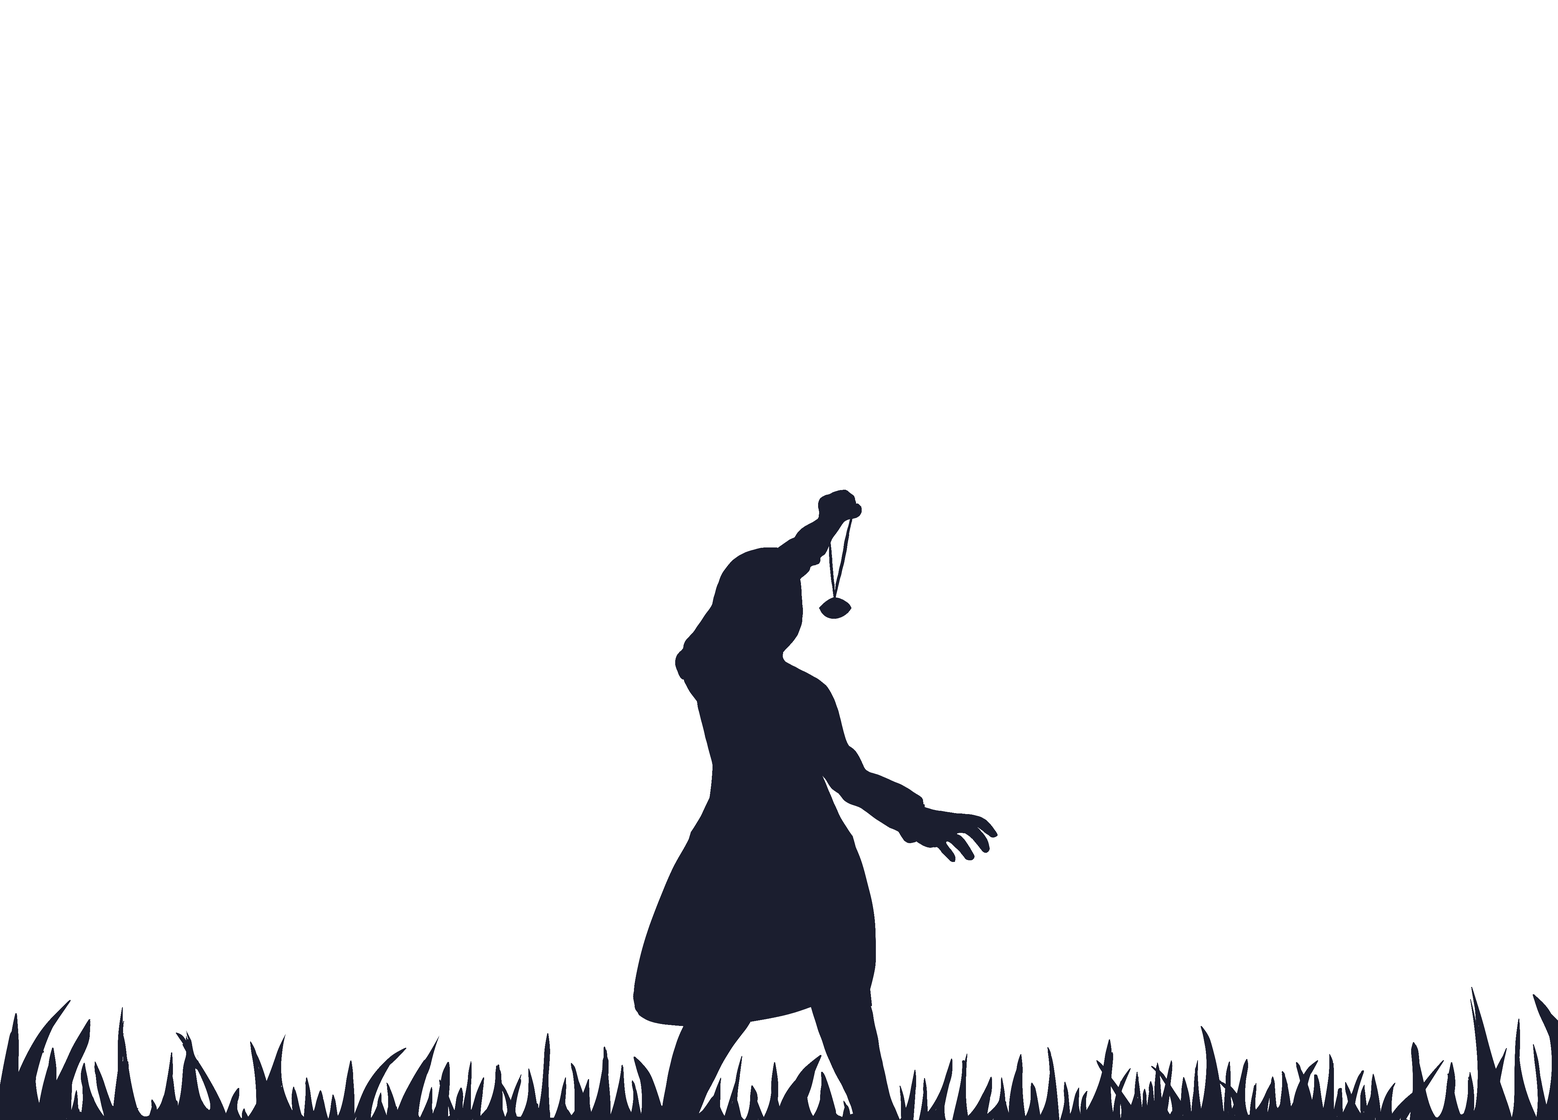
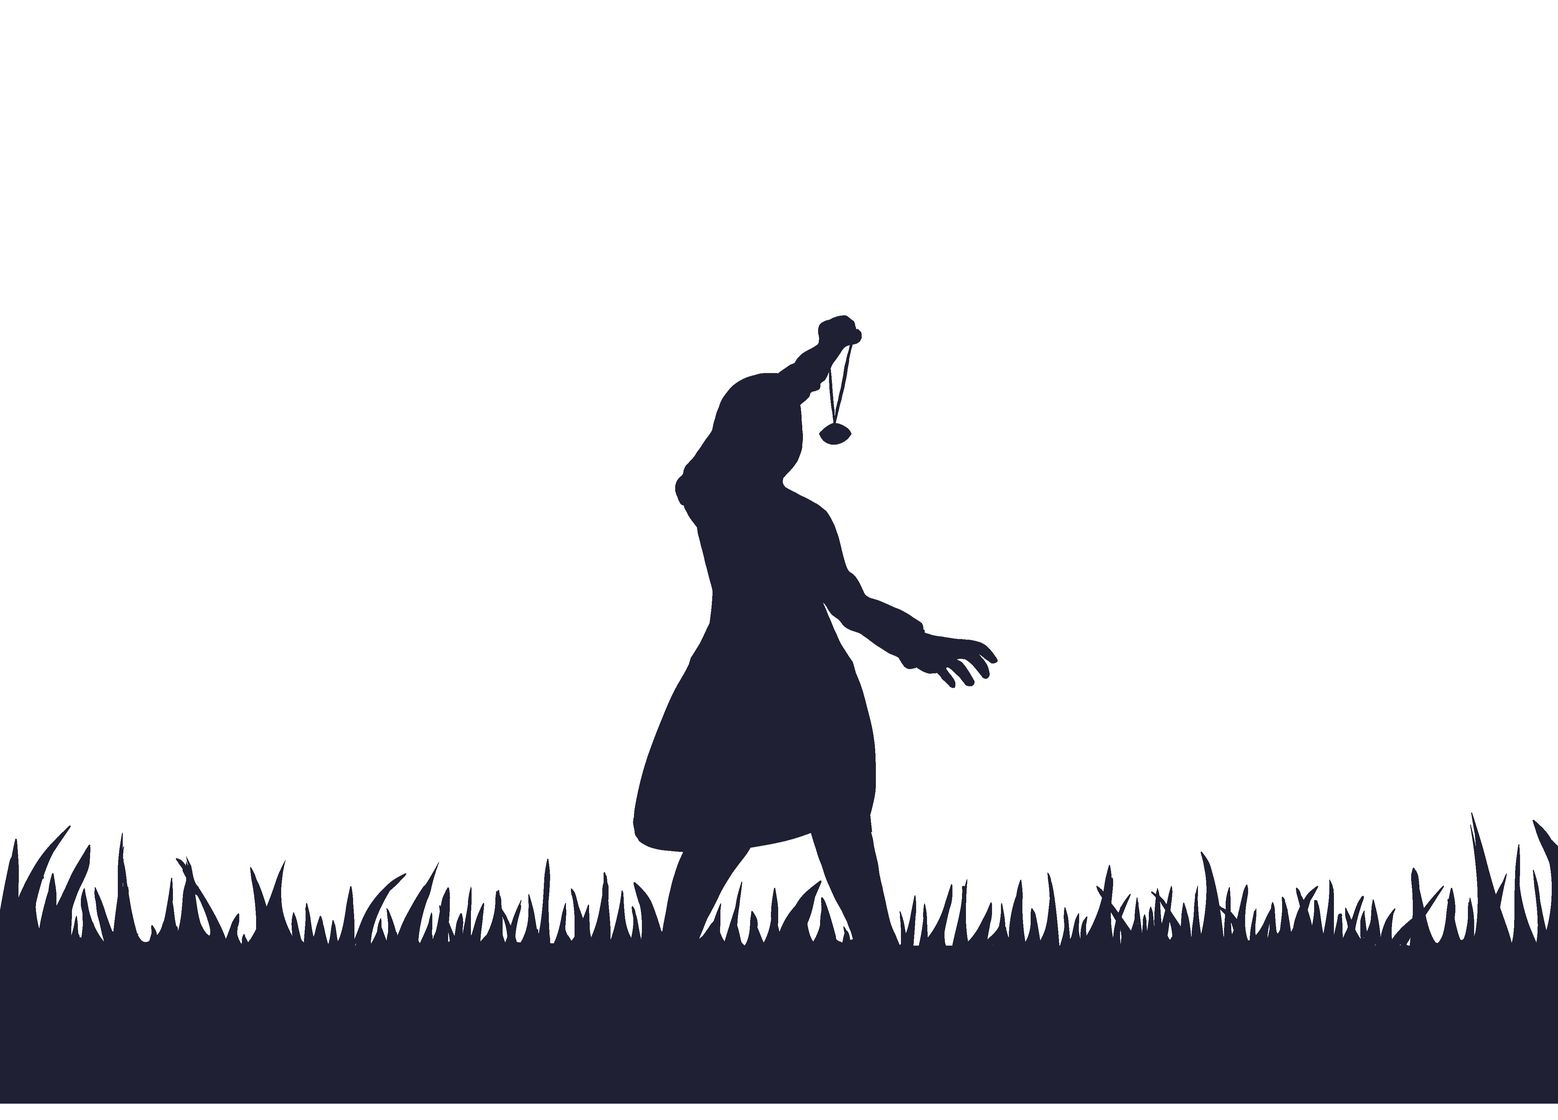
changed theming

Changed region(s): [[0.0, 0.2811, 1.0, 1.0]]

diff --git a/src/components/waves.tsx b/src/components/waves.tsx
@@ -24,26 +24,38 @@ class BG1 extends React.Component {
         height="100%"
         version="1.1"
       >
-        <rect x="0" y="0" width="1920" height="1080" fill="#272727"></rect>
+        <rect x="0" y="0" width="1920" height="1080" fill="#1f2033"></rect>
         <path
-          d="M0 725L45.7 712.3C91.3 699.7 182.7 674.3 274.2 664.8C365.7 655.3 457.3 661.7 548.8 680.7C640.3 699.7 731.7 731.3 823 742.5C914.3 753.7 1005.7 744.3 1097 739.7C1188.3 735 1279.7 735 1371.2 738.8C1462.7 742.7 1554.3 750.3 1645.8 752.5C1737.3 754.7 1828.7 751.3 1874.3 749.7L1920 748L1920 1081L1874.3 1081C1828.7 1081 1737.3 1081 1645.8 1081C1554.3 1081 1462.7 1081 1371.2 1081C1279.7 1081 1188.3 1081 1097 1081C1005.7 1081 914.3 1081 823 1081C731.7 1081 640.3 1081 548.8 1081C457.3 1081 365.7 1081 274.2 1081C182.7 1081 91.3 1081 45.7 1081L0 1081Z"
-          fill="#a6fdff"
+          d="M0 606L29.2 627.8C58.3 649.7 116.7 693.3 174.8 693.2C233 693 291 649 349.2 651.8C407.3 654.7 465.7 704.3 523.8 730.8C582 757.3 640 760.7 698.2 738.7C756.3 716.7 814.7 669.3 872.8 654.5C931 639.7 989 657.3 1047.2 668.8C1105.3 680.3 1163.7 685.7 1221.8 693.8C1280 702 1338 713 1396.2 711.2C1454.3 709.3 1512.7 694.7 1570.8 699.2C1629 703.7 1687 727.3 1745.2 740C1803.3 752.7 1861.7 754.3 1890.8 755.2L1920 756L1920 1081L1890.8 1081C1861.7 1081 1803.3 1081 1745.2 1081C1687 1081 1629 1081 1570.8 1081C1512.7 1081 1454.3 1081 1396.2 1081C1338 1081 1280 1081 1221.8 1081C1163.7 1081 1105.3 1081 1047.2 1081C989 1081 931 1081 872.8 1081C814.7 1081 756.3 1081 698.2 1081C640 1081 582 1081 523.8 1081C465.7 1081 407.3 1081 349.2 1081C291 1081 233 1081 174.8 1081C116.7 1081 58.3 1081 29.2 1081L0 1081Z"
+          fill="#aeb4d7"
         ></path>
         <path
-          d="M0 825L45.7 828C91.3 831 182.7 837 274.2 823.2C365.7 809.3 457.3 775.7 548.8 753.5C640.3 731.3 731.7 720.7 823 739.7C914.3 758.7 1005.7 807.3 1097 807.2C1188.3 807 1279.7 758 1371.2 754.5C1462.7 751 1554.3 793 1645.8 811.8C1737.3 830.7 1828.7 826.3 1874.3 824.2L1920 822L1920 1081L1874.3 1081C1828.7 1081 1737.3 1081 1645.8 1081C1554.3 1081 1462.7 1081 1371.2 1081C1279.7 1081 1188.3 1081 1097 1081C1005.7 1081 914.3 1081 823 1081C731.7 1081 640.3 1081 548.8 1081C457.3 1081 365.7 1081 274.2 1081C182.7 1081 91.3 1081 45.7 1081L0 1081Z"
-          fill="#7fd3da"
+          d="M0 810L29.2 798.7C58.3 787.3 116.7 764.7 174.8 758.5C233 752.3 291 762.7 349.2 758.7C407.3 754.7 465.7 736.3 523.8 722C582 707.7 640 697.3 698.2 688.2C756.3 679 814.7 671 872.8 673.5C931 676 989 689 1047.2 698.8C1105.3 708.7 1163.7 715.3 1221.8 709.3C1280 703.3 1338 684.7 1396.2 684.5C1454.3 684.3 1512.7 702.7 1570.8 720.3C1629 738 1687 755 1745.2 758.7C1803.3 762.3 1861.7 752.7 1890.8 747.8L1920 743L1920 1081L1890.8 1081C1861.7 1081 1803.3 1081 1745.2 1081C1687 1081 1629 1081 1570.8 1081C1512.7 1081 1454.3 1081 1396.2 1081C1338 1081 1280 1081 1221.8 1081C1163.7 1081 1105.3 1081 1047.2 1081C989 1081 931 1081 872.8 1081C814.7 1081 756.3 1081 698.2 1081C640 1081 582 1081 523.8 1081C465.7 1081 407.3 1081 349.2 1081C291 1081 233 1081 174.8 1081C116.7 1081 58.3 1081 29.2 1081L0 1081Z"
+          fill="#989dbd"
         ></path>
         <path
-          d="M0 920L45.7 911.2C91.3 902.3 182.7 884.7 274.2 868C365.7 851.3 457.3 835.7 548.8 840.7C640.3 845.7 731.7 871.3 823 877.7C914.3 884 1005.7 871 1097 858.7C1188.3 846.3 1279.7 834.7 1371.2 840C1462.7 845.3 1554.3 867.7 1645.8 868.2C1737.3 868.7 1828.7 847.3 1874.3 836.7L1920 826L1920 1081L1874.3 1081C1828.7 1081 1737.3 1081 1645.8 1081C1554.3 1081 1462.7 1081 1371.2 1081C1279.7 1081 1188.3 1081 1097 1081C1005.7 1081 914.3 1081 823 1081C731.7 1081 640.3 1081 548.8 1081C457.3 1081 365.7 1081 274.2 1081C182.7 1081 91.3 1081 45.7 1081L0 1081Z"
-          fill="#5aaab5"
+          d="M0 757L29.2 768.2C58.3 779.3 116.7 801.7 174.8 794.7C233 787.7 291 751.3 349.2 753C407.3 754.7 465.7 794.3 523.8 804.8C582 815.3 640 796.7 698.2 787.3C756.3 778 814.7 778 872.8 775.2C931 772.3 989 766.7 1047.2 772.7C1105.3 778.7 1163.7 796.3 1221.8 796C1280 795.7 1338 777.3 1396.2 768.8C1454.3 760.3 1512.7 761.7 1570.8 763.7C1629 765.7 1687 768.3 1745.2 766.2C1803.3 764 1861.7 757 1890.8 753.5L1920 750L1920 1081L1890.8 1081C1861.7 1081 1803.3 1081 1745.2 1081C1687 1081 1629 1081 1570.8 1081C1512.7 1081 1454.3 1081 1396.2 1081C1338 1081 1280 1081 1221.8 1081C1163.7 1081 1105.3 1081 1047.2 1081C989 1081 931 1081 872.8 1081C814.7 1081 756.3 1081 698.2 1081C640 1081 582 1081 523.8 1081C465.7 1081 407.3 1081 349.2 1081C291 1081 233 1081 174.8 1081C116.7 1081 58.3 1081 29.2 1081L0 1081Z"
+          fill="#8286a4"
         ></path>
         <path
-          d="M0 925L45.7 923.5C91.3 922 182.7 919 274.2 912.2C365.7 905.3 457.3 894.7 548.8 887C640.3 879.3 731.7 874.7 823 887.7C914.3 900.7 1005.7 931.3 1097 944C1188.3 956.7 1279.7 951.3 1371.2 935.5C1462.7 919.7 1554.3 893.3 1645.8 893.2C1737.3 893 1828.7 919 1874.3 932L1920 945L1920 1081L1874.3 1081C1828.7 1081 1737.3 1081 1645.8 1081C1554.3 1081 1462.7 1081 1371.2 1081C1279.7 1081 1188.3 1081 1097 1081C1005.7 1081 914.3 1081 823 1081C731.7 1081 640.3 1081 548.8 1081C457.3 1081 365.7 1081 274.2 1081C182.7 1081 91.3 1081 45.7 1081L0 1081Z"
-          fill="#358291"
+          d="M0 782L29.2 785.8C58.3 789.7 116.7 797.3 174.8 803.5C233 809.7 291 814.3 349.2 824.3C407.3 834.3 465.7 849.7 523.8 847.7C582 845.7 640 826.3 698.2 823C756.3 819.7 814.7 832.3 872.8 837.8C931 843.3 989 841.7 1047.2 841.8C1105.3 842 1163.7 844 1221.8 846.5C1280 849 1338 852 1396.2 853.8C1454.3 855.7 1512.7 856.3 1570.8 850.8C1629 845.3 1687 833.7 1745.2 834C1803.3 834.3 1861.7 846.7 1890.8 852.8L1920 859L1920 1081L1890.8 1081C1861.7 1081 1803.3 1081 1745.2 1081C1687 1081 1629 1081 1570.8 1081C1512.7 1081 1454.3 1081 1396.2 1081C1338 1081 1280 1081 1221.8 1081C1163.7 1081 1105.3 1081 1047.2 1081C989 1081 931 1081 872.8 1081C814.7 1081 756.3 1081 698.2 1081C640 1081 582 1081 523.8 1081C465.7 1081 407.3 1081 349.2 1081C291 1081 233 1081 174.8 1081C116.7 1081 58.3 1081 29.2 1081L0 1081Z"
+          fill="#6c708c"
         ></path>
         <path
-          d="M0 964L45.7 967.3C91.3 970.7 182.7 977.3 274.2 974C365.7 970.7 457.3 957.3 548.8 961.5C640.3 965.7 731.7 987.3 823 1001C914.3 1014.7 1005.7 1020.3 1097 1022C1188.3 1023.7 1279.7 1021.3 1371.2 1008.5C1462.7 995.7 1554.3 972.3 1645.8 965.2C1737.3 958 1828.7 967 1874.3 971.5L1920 976L1920 1081L1874.3 1081C1828.7 1081 1737.3 1081 1645.8 1081C1554.3 1081 1462.7 1081 1371.2 1081C1279.7 1081 1188.3 1081 1097 1081C1005.7 1081 914.3 1081 823 1081C731.7 1081 640.3 1081 548.8 1081C457.3 1081 365.7 1081 274.2 1081C182.7 1081 91.3 1081 45.7 1081L0 1081Z"
-          fill="#065d6e"
+          d="M0 867L29.2 862.7C58.3 858.3 116.7 849.7 174.8 849.3C233 849 291 857 349.2 860.5C407.3 864 465.7 863 523.8 866.7C582 870.3 640 878.7 698.2 878.7C756.3 878.7 814.7 870.3 872.8 867.8C931 865.3 989 868.7 1047.2 871.2C1105.3 873.7 1163.7 875.3 1221.8 885C1280 894.7 1338 912.3 1396.2 904.7C1454.3 897 1512.7 864 1570.8 846.3C1629 828.7 1687 826.3 1745.2 830.5C1803.3 834.7 1861.7 845.3 1890.8 850.7L1920 856L1920 1081L1890.8 1081C1861.7 1081 1803.3 1081 1745.2 1081C1687 1081 1629 1081 1570.8 1081C1512.7 1081 1454.3 1081 1396.2 1081C1338 1081 1280 1081 1221.8 1081C1163.7 1081 1105.3 1081 1047.2 1081C989 1081 931 1081 872.8 1081C814.7 1081 756.3 1081 698.2 1081C640 1081 582 1081 523.8 1081C465.7 1081 407.3 1081 349.2 1081C291 1081 233 1081 174.8 1081C116.7 1081 58.3 1081 29.2 1081L0 1081Z"
+          fill="#585a74"
+        ></path>
+        <path
+          d="M0 896L29.2 902.7C58.3 909.3 116.7 922.7 174.8 922.5C233 922.3 291 908.7 349.2 901.7C407.3 894.7 465.7 894.3 523.8 898.7C582 903 640 912 698.2 909C756.3 906 814.7 891 872.8 883.2C931 875.3 989 874.7 1047.2 881.7C1105.3 888.7 1163.7 903.3 1221.8 910C1280 916.7 1338 915.3 1396.2 913.5C1454.3 911.7 1512.7 909.3 1570.8 918.5C1629 927.7 1687 948.3 1745.2 959C1803.3 969.7 1861.7 970.3 1890.8 970.7L1920 971L1920 1081L1890.8 1081C1861.7 1081 1803.3 1081 1745.2 1081C1687 1081 1629 1081 1570.8 1081C1512.7 1081 1454.3 1081 1396.2 1081C1338 1081 1280 1081 1221.8 1081C1163.7 1081 1105.3 1081 1047.2 1081C989 1081 931 1081 872.8 1081C814.7 1081 756.3 1081 698.2 1081C640 1081 582 1081 523.8 1081C465.7 1081 407.3 1081 349.2 1081C291 1081 233 1081 174.8 1081C116.7 1081 58.3 1081 29.2 1081L0 1081Z"
+          fill="#44465e"
+        ></path>
+        <path
+          d="M0 963L29.2 970.5C58.3 978 116.7 993 174.8 997C233 1001 291 994 349.2 987.2C407.3 980.3 465.7 973.7 523.8 966.7C582 959.7 640 952.3 698.2 947.7C756.3 943 814.7 941 872.8 951.3C931 961.7 989 984.3 1047.2 995C1105.3 1005.7 1163.7 1004.3 1221.8 1000.3C1280 996.3 1338 989.7 1396.2 990.7C1454.3 991.7 1512.7 1000.3 1570.8 995C1629 989.7 1687 970.3 1745.2 959.8C1803.3 949.3 1861.7 947.7 1890.8 946.8L1920 946L1920 1081L1890.8 1081C1861.7 1081 1803.3 1081 1745.2 1081C1687 1081 1629 1081 1570.8 1081C1512.7 1081 1454.3 1081 1396.2 1081C1338 1081 1280 1081 1221.8 1081C1163.7 1081 1105.3 1081 1047.2 1081C989 1081 931 1081 872.8 1081C814.7 1081 756.3 1081 698.2 1081C640 1081 582 1081 523.8 1081C465.7 1081 407.3 1081 349.2 1081C291 1081 233 1081 174.8 1081C116.7 1081 58.3 1081 29.2 1081L0 1081Z"
+          fill="#313248"
+        ></path>
+        <path
+          d="M0 1009L29.2 1016.5C58.3 1024 116.7 1039 174.8 1039.8C233 1040.7 291 1027.3 349.2 1026.7C407.3 1026 465.7 1038 523.8 1037.7C582 1037.3 640 1024.7 698.2 1016.8C756.3 1009 814.7 1006 872.8 1002C931 998 989 993 1047.2 990.7C1105.3 988.3 1163.7 988.7 1221.8 993C1280 997.3 1338 1005.7 1396.2 1015.8C1454.3 1026 1512.7 1038 1570.8 1044.5C1629 1051 1687 1052 1745.2 1052.5C1803.3 1053 1861.7 1053 1890.8 1053L1920 1053L1920 1081L1890.8 1081C1861.7 1081 1803.3 1081 1745.2 1081C1687 1081 1629 1081 1570.8 1081C1512.7 1081 1454.3 1081 1396.2 1081C1338 1081 1280 1081 1221.8 1081C1163.7 1081 1105.3 1081 1047.2 1081C989 1081 931 1081 872.8 1081C814.7 1081 756.3 1081 698.2 1081C640 1081 582 1081 523.8 1081C465.7 1081 407.3 1081 349.2 1081C291 1081 233 1081 174.8 1081C116.7 1081 58.3 1081 29.2 1081L0 1081Z"
+          fill="#1f2033"
         ></path>
       </svg>
     );
@@ -60,26 +72,38 @@ class BG2 extends React.Component {
         height="100%"
         version="1.1"
       >
-        <rect x="0" y="0" width="1920" height="1080" fill="#272727"></rect>
+        <rect x="0" y="0" width="1920" height="1080" fill="#1f2033"></rect>
         <path
-          d="M0 745L45.7 743.5C91.3 742 182.7 739 274.2 746.8C365.7 754.7 457.3 773.3 548.8 784.3C640.3 795.3 731.7 798.7 823 789.8C914.3 781 1005.7 760 1097 756.5C1188.3 753 1279.7 767 1371.2 774.8C1462.7 782.7 1554.3 784.3 1645.8 765.3C1737.3 746.3 1828.7 706.7 1874.3 686.8L1920 667L1920 1081L1874.3 1081C1828.7 1081 1737.3 1081 1645.8 1081C1554.3 1081 1462.7 1081 1371.2 1081C1279.7 1081 1188.3 1081 1097 1081C1005.7 1081 914.3 1081 823 1081C731.7 1081 640.3 1081 548.8 1081C457.3 1081 365.7 1081 274.2 1081C182.7 1081 91.3 1081 45.7 1081L0 1081Z"
-          fill="#a6fdff"
+          d="M0 607L29.2 614C58.3 621 116.7 635 174.8 646.8C233 658.7 291 668.3 349.2 687C407.3 705.7 465.7 733.3 523.8 745.5C582 757.7 640 754.3 698.2 738.3C756.3 722.3 814.7 693.7 872.8 677.7C931 661.7 989 658.3 1047.2 672.3C1105.3 686.3 1163.7 717.7 1221.8 720.3C1280 723 1338 697 1396.2 674.3C1454.3 651.7 1512.7 632.3 1570.8 643.8C1629 655.3 1687 697.7 1745.2 696.8C1803.3 696 1861.7 652 1890.8 630L1920 608L1920 1081L1890.8 1081C1861.7 1081 1803.3 1081 1745.2 1081C1687 1081 1629 1081 1570.8 1081C1512.7 1081 1454.3 1081 1396.2 1081C1338 1081 1280 1081 1221.8 1081C1163.7 1081 1105.3 1081 1047.2 1081C989 1081 931 1081 872.8 1081C814.7 1081 756.3 1081 698.2 1081C640 1081 582 1081 523.8 1081C465.7 1081 407.3 1081 349.2 1081C291 1081 233 1081 174.8 1081C116.7 1081 58.3 1081 29.2 1081L0 1081Z"
+          fill="#aeb4d7"
         ></path>
         <path
-          d="M0 863L45.7 843.8C91.3 824.7 182.7 786.3 274.2 768.2C365.7 750 457.3 752 548.8 746.3C640.3 740.7 731.7 727.3 823 739.8C914.3 752.3 1005.7 790.7 1097 792C1188.3 793.3 1279.7 757.7 1371.2 763.2C1462.7 768.7 1554.3 815.3 1645.8 823.7C1737.3 832 1828.7 802 1874.3 787L1920 772L1920 1081L1874.3 1081C1828.7 1081 1737.3 1081 1645.8 1081C1554.3 1081 1462.7 1081 1371.2 1081C1279.7 1081 1188.3 1081 1097 1081C1005.7 1081 914.3 1081 823 1081C731.7 1081 640.3 1081 548.8 1081C457.3 1081 365.7 1081 274.2 1081C182.7 1081 91.3 1081 45.7 1081L0 1081Z"
-          fill="#89dde3"
+          d="M0 687L29.2 686.3C58.3 685.7 116.7 684.3 174.8 695.7C233 707 291 731 349.2 736.2C407.3 741.3 465.7 727.7 523.8 721.8C582 716 640 718 698.2 715.8C756.3 713.7 814.7 707.3 872.8 708.8C931 710.3 989 719.7 1047.2 731.2C1105.3 742.7 1163.7 756.3 1221.8 763.7C1280 771 1338 772 1396.2 771.7C1454.3 771.3 1512.7 769.7 1570.8 754.2C1629 738.7 1687 709.3 1745.2 704.5C1803.3 699.7 1861.7 719.3 1890.8 729.2L1920 739L1920 1081L1890.8 1081C1861.7 1081 1803.3 1081 1745.2 1081C1687 1081 1629 1081 1570.8 1081C1512.7 1081 1454.3 1081 1396.2 1081C1338 1081 1280 1081 1221.8 1081C1163.7 1081 1105.3 1081 1047.2 1081C989 1081 931 1081 872.8 1081C814.7 1081 756.3 1081 698.2 1081C640 1081 582 1081 523.8 1081C465.7 1081 407.3 1081 349.2 1081C291 1081 233 1081 174.8 1081C116.7 1081 58.3 1081 29.2 1081L0 1081Z"
+          fill="#989dbd"
         ></path>
         <path
-          d="M0 885L45.7 888.2C91.3 891.3 182.7 897.7 274.2 892.5C365.7 887.3 457.3 870.7 548.8 868C640.3 865.3 731.7 876.7 823 879.2C914.3 881.7 1005.7 875.3 1097 880.5C1188.3 885.7 1279.7 902.3 1371.2 890C1462.7 877.7 1554.3 836.3 1645.8 825.3C1737.3 814.3 1828.7 833.7 1874.3 843.3L1920 853L1920 1081L1874.3 1081C1828.7 1081 1737.3 1081 1645.8 1081C1554.3 1081 1462.7 1081 1371.2 1081C1279.7 1081 1188.3 1081 1097 1081C1005.7 1081 914.3 1081 823 1081C731.7 1081 640.3 1081 548.8 1081C457.3 1081 365.7 1081 274.2 1081C182.7 1081 91.3 1081 45.7 1081L0 1081Z"
-          fill="#6cbec7"
+          d="M0 816L29.2 806.8C58.3 797.7 116.7 779.3 174.8 771.3C233 763.3 291 765.7 349.2 762.3C407.3 759 465.7 750 523.8 747.8C582 745.7 640 750.3 698.2 752.8C756.3 755.3 814.7 755.7 872.8 755.7C931 755.7 989 755.3 1047.2 754.8C1105.3 754.3 1163.7 753.7 1221.8 759.2C1280 764.7 1338 776.3 1396.2 781.5C1454.3 786.7 1512.7 785.3 1570.8 779.8C1629 774.3 1687 764.7 1745.2 765.7C1803.3 766.7 1861.7 778.3 1890.8 784.2L1920 790L1920 1081L1890.8 1081C1861.7 1081 1803.3 1081 1745.2 1081C1687 1081 1629 1081 1570.8 1081C1512.7 1081 1454.3 1081 1396.2 1081C1338 1081 1280 1081 1221.8 1081C1163.7 1081 1105.3 1081 1047.2 1081C989 1081 931 1081 872.8 1081C814.7 1081 756.3 1081 698.2 1081C640 1081 582 1081 523.8 1081C465.7 1081 407.3 1081 349.2 1081C291 1081 233 1081 174.8 1081C116.7 1081 58.3 1081 29.2 1081L0 1081Z"
+          fill="#8286a4"
         ></path>
         <path
-          d="M0 962L45.7 960.7C91.3 959.3 182.7 956.7 274.2 954C365.7 951.3 457.3 948.7 548.8 945.8C640.3 943 731.7 940 823 933.3C914.3 926.7 1005.7 916.3 1097 922.7C1188.3 929 1279.7 952 1371.2 963C1462.7 974 1554.3 973 1645.8 966C1737.3 959 1828.7 946 1874.3 939.5L1920 933L1920 1081L1874.3 1081C1828.7 1081 1737.3 1081 1645.8 1081C1554.3 1081 1462.7 1081 1371.2 1081C1279.7 1081 1188.3 1081 1097 1081C1005.7 1081 914.3 1081 823 1081C731.7 1081 640.3 1081 548.8 1081C457.3 1081 365.7 1081 274.2 1081C182.7 1081 91.3 1081 45.7 1081L0 1081Z"
-          fill="#50a0ac"
+          d="M0 821L29.2 821.5C58.3 822 116.7 823 174.8 827.8C233 832.7 291 841.3 349.2 836.7C407.3 832 465.7 814 523.8 811.3C582 808.7 640 821.3 698.2 819.3C756.3 817.3 814.7 800.7 872.8 792.8C931 785 989 786 1047.2 802.7C1105.3 819.3 1163.7 851.7 1221.8 852.2C1280 852.7 1338 821.3 1396.2 807.8C1454.3 794.3 1512.7 798.7 1570.8 808C1629 817.3 1687 831.7 1745.2 831C1803.3 830.3 1861.7 814.7 1890.8 806.8L1920 799L1920 1081L1890.8 1081C1861.7 1081 1803.3 1081 1745.2 1081C1687 1081 1629 1081 1570.8 1081C1512.7 1081 1454.3 1081 1396.2 1081C1338 1081 1280 1081 1221.8 1081C1163.7 1081 1105.3 1081 1047.2 1081C989 1081 931 1081 872.8 1081C814.7 1081 756.3 1081 698.2 1081C640 1081 582 1081 523.8 1081C465.7 1081 407.3 1081 349.2 1081C291 1081 233 1081 174.8 1081C116.7 1081 58.3 1081 29.2 1081L0 1081Z"
+          fill="#6c708c"
         ></path>
         <path
-          d="M0 1033L45.7 1032.8C91.3 1032.7 182.7 1032.3 274.2 1032.3C365.7 1032.3 457.3 1032.7 548.8 1024C640.3 1015.3 731.7 997.7 823 995.5C914.3 993.3 1005.7 1006.7 1097 1008.2C1188.3 1009.7 1279.7 999.3 1371.2 993.3C1462.7 987.3 1554.3 985.7 1645.8 989.3C1737.3 993 1828.7 1002 1874.3 1006.5L1920 1011L1920 1081L1874.3 1081C1828.7 1081 1737.3 1081 1645.8 1081C1554.3 1081 1462.7 1081 1371.2 1081C1279.7 1081 1188.3 1081 1097 1081C1005.7 1081 914.3 1081 823 1081C731.7 1081 640.3 1081 548.8 1081C457.3 1081 365.7 1081 274.2 1081C182.7 1081 91.3 1081 45.7 1081L0 1081Z"
-          fill="#358291"
+          d="M0 857L29.2 853.3C58.3 849.7 116.7 842.3 174.8 843C233 843.7 291 852.3 349.2 861.7C407.3 871 465.7 881 523.8 875.2C582 869.3 640 847.7 698.2 848.2C756.3 848.7 814.7 871.3 872.8 872.3C931 873.3 989 852.7 1047.2 858.5C1105.3 864.3 1163.7 896.7 1221.8 896.2C1280 895.7 1338 862.3 1396.2 857C1454.3 851.7 1512.7 874.3 1570.8 874.2C1629 874 1687 851 1745.2 853.8C1803.3 856.7 1861.7 885.3 1890.8 899.7L1920 914L1920 1081L1890.8 1081C1861.7 1081 1803.3 1081 1745.2 1081C1687 1081 1629 1081 1570.8 1081C1512.7 1081 1454.3 1081 1396.2 1081C1338 1081 1280 1081 1221.8 1081C1163.7 1081 1105.3 1081 1047.2 1081C989 1081 931 1081 872.8 1081C814.7 1081 756.3 1081 698.2 1081C640 1081 582 1081 523.8 1081C465.7 1081 407.3 1081 349.2 1081C291 1081 233 1081 174.8 1081C116.7 1081 58.3 1081 29.2 1081L0 1081Z"
+          fill="#585a74"
+        ></path>
+        <path
+          d="M0 955L29.2 947.8C58.3 940.7 116.7 926.3 174.8 918.3C233 910.3 291 908.7 349.2 918.2C407.3 927.7 465.7 948.3 523.8 943.5C582 938.7 640 908.3 698.2 907.3C756.3 906.3 814.7 934.7 872.8 942.5C931 950.3 989 937.7 1047.2 928.5C1105.3 919.3 1163.7 913.7 1221.8 913C1280 912.3 1338 916.7 1396.2 923.7C1454.3 930.7 1512.7 940.3 1570.8 941.2C1629 942 1687 934 1745.2 930.3C1803.3 926.7 1861.7 927.3 1890.8 927.7L1920 928L1920 1081L1890.8 1081C1861.7 1081 1803.3 1081 1745.2 1081C1687 1081 1629 1081 1570.8 1081C1512.7 1081 1454.3 1081 1396.2 1081C1338 1081 1280 1081 1221.8 1081C1163.7 1081 1105.3 1081 1047.2 1081C989 1081 931 1081 872.8 1081C814.7 1081 756.3 1081 698.2 1081C640 1081 582 1081 523.8 1081C465.7 1081 407.3 1081 349.2 1081C291 1081 233 1081 174.8 1081C116.7 1081 58.3 1081 29.2 1081L0 1081Z"
+          fill="#44465e"
+        ></path>
+        <path
+          d="M0 954L29.2 959.5C58.3 965 116.7 976 174.8 974.8C233 973.7 291 960.3 349.2 954C407.3 947.7 465.7 948.3 523.8 956.8C582 965.3 640 981.7 698.2 986.7C756.3 991.7 814.7 985.3 872.8 981.2C931 977 989 975 1047.2 975.7C1105.3 976.3 1163.7 979.7 1221.8 977.3C1280 975 1338 967 1396.2 965.2C1454.3 963.3 1512.7 967.7 1570.8 965C1629 962.3 1687 952.7 1745.2 945.5C1803.3 938.3 1861.7 933.7 1890.8 931.3L1920 929L1920 1081L1890.8 1081C1861.7 1081 1803.3 1081 1745.2 1081C1687 1081 1629 1081 1570.8 1081C1512.7 1081 1454.3 1081 1396.2 1081C1338 1081 1280 1081 1221.8 1081C1163.7 1081 1105.3 1081 1047.2 1081C989 1081 931 1081 872.8 1081C814.7 1081 756.3 1081 698.2 1081C640 1081 582 1081 523.8 1081C465.7 1081 407.3 1081 349.2 1081C291 1081 233 1081 174.8 1081C116.7 1081 58.3 1081 29.2 1081L0 1081Z"
+          fill="#313248"
+        ></path>
+        <path
+          d="M0 1016L29.2 1020C58.3 1024 116.7 1032 174.8 1038.3C233 1044.7 291 1049.3 349.2 1045.7C407.3 1042 465.7 1030 523.8 1025.5C582 1021 640 1024 698.2 1026C756.3 1028 814.7 1029 872.8 1027.8C931 1026.7 989 1023.3 1047.2 1020.3C1105.3 1017.3 1163.7 1014.7 1221.8 1010.5C1280 1006.3 1338 1000.7 1396.2 1003.2C1454.3 1005.7 1512.7 1016.3 1570.8 1024.8C1629 1033.3 1687 1039.7 1745.2 1043.8C1803.3 1048 1861.7 1050 1890.8 1051L1920 1052L1920 1081L1890.8 1081C1861.7 1081 1803.3 1081 1745.2 1081C1687 1081 1629 1081 1570.8 1081C1512.7 1081 1454.3 1081 1396.2 1081C1338 1081 1280 1081 1221.8 1081C1163.7 1081 1105.3 1081 1047.2 1081C989 1081 931 1081 872.8 1081C814.7 1081 756.3 1081 698.2 1081C640 1081 582 1081 523.8 1081C465.7 1081 407.3 1081 349.2 1081C291 1081 233 1081 174.8 1081C116.7 1081 58.3 1081 29.2 1081L0 1081Z"
+          fill="#1f2033"
         ></path>
       </svg>
     );
@@ -102,6 +126,7 @@ export default class Waves extends React.Component<IWavesProps, IWavesState> {
           position: "absolute",
           height: "100vh",
           width: "100%",
+          backgroundSize: 'cover'
         }}
       >
 

diff --git a/src/components/game-buttons.tsx b/src/components/game-buttons.tsx
@@ -9,6 +9,10 @@ import { ReactComponent as Nintendo } from "../media/icons/nintendo-switch-svgre
 
 export interface IGameButtonsProps {}
 
+interface StyleSheet {
+  [key: string]: React.CSSProperties;
+}
+
 export default class GameButtons extends React.Component<IGameButtonsProps> {
   public render() {
     return (
@@ -23,18 +27,26 @@ export default class GameButtons extends React.Component<IGameButtonsProps> {
         <ButtonGroup
           variant="contained"
           orientation="vertical"
+          // style={styles.color}
           sx={{ width: "18em" }}
           size="large"
-          disableElevation
+          // disableElevation
+          color="secondary"
         >
           <Button
             sx={{ margin: "1vh", height: "3em" }}
+            // sx={styles.button}
+            // @ts-ignore
+
             startIcon={<DesktopWindowsIcon />}
           >
             WINDOWS
           </Button>
           <Button
-            sx={{ margin: "1vh", height: "3em" }}
+            sx={{
+              margin: "1vh",
+              height: "3em",
+            }}
             startIcon={<Playstation />}
           >
             PLAYSTATION 5
@@ -46,6 +58,7 @@ export default class GameButtons extends React.Component<IGameButtonsProps> {
           sx={{ width: "18em" }}
           size="large"
           disableElevation
+          color="secondary"
         >
           <Button
             sx={{ margin: "1vh", height: "3em" }}
@@ -61,3 +74,5 @@ export default class GameButtons extends React.Component<IGameButtonsProps> {
     );
   }
 }
+
+const styles: StyleSheet = {};

diff --git a/src/components/banner.tsx b/src/components/banner.tsx
@@ -23,7 +23,8 @@ export default class Banner extends React.Component<IBannerProps> {
               speed: -50,
               translateY: [0, 60],
               // expanded: false,
-              scale: [1, 1],
+              // shouldAlwaysCompleteAnimation: true,
+              scale: [1, 1, "easeOutCubic"],
             },
             {
               speed: -60,
@@ -59,19 +60,22 @@ export default class Banner extends React.Component<IBannerProps> {
             {
               image: require("../media/banner/bg1.png"),
               speed: -32,
+              // shouldAlwaysCompleteAnimation: true,
             },
 
             {
               image: require("../media/banner/bg2.png"),
-              speed: -17,
+              speed: -6,
+              // shouldAlwaysCompleteAnimation: true,
               // translateY: [-20, 0],
             },
             {
               image: require("../media/banner/person.png"),
-              speed: -5,
-              // translateY: [100, 0],
+              speed: -2,
+              // translateY: [-20, 0],
               scale: [1, 1],
-              // expanded: false,
+              // shouldAlwaysCompleteAnimation: true,
+              expanded: true,
             },
           ]}
           style={{

diff --git a/src/App.tsx b/src/App.tsx
@@ -15,6 +15,11 @@ function App() {
   const darkTheme = createTheme({
     palette: {
       mode: "dark",
+      // @ts-ignore
+      neutral: {
+        main: "red",
+        contrastText: "black",
+      },
     },
   });
   return (
